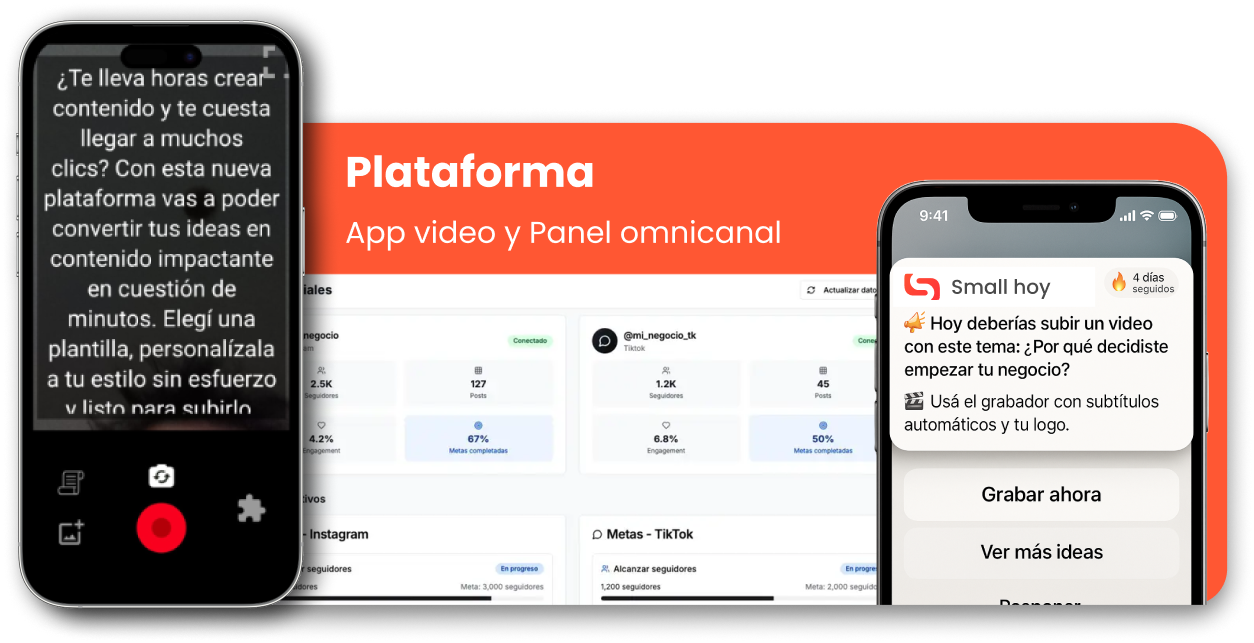
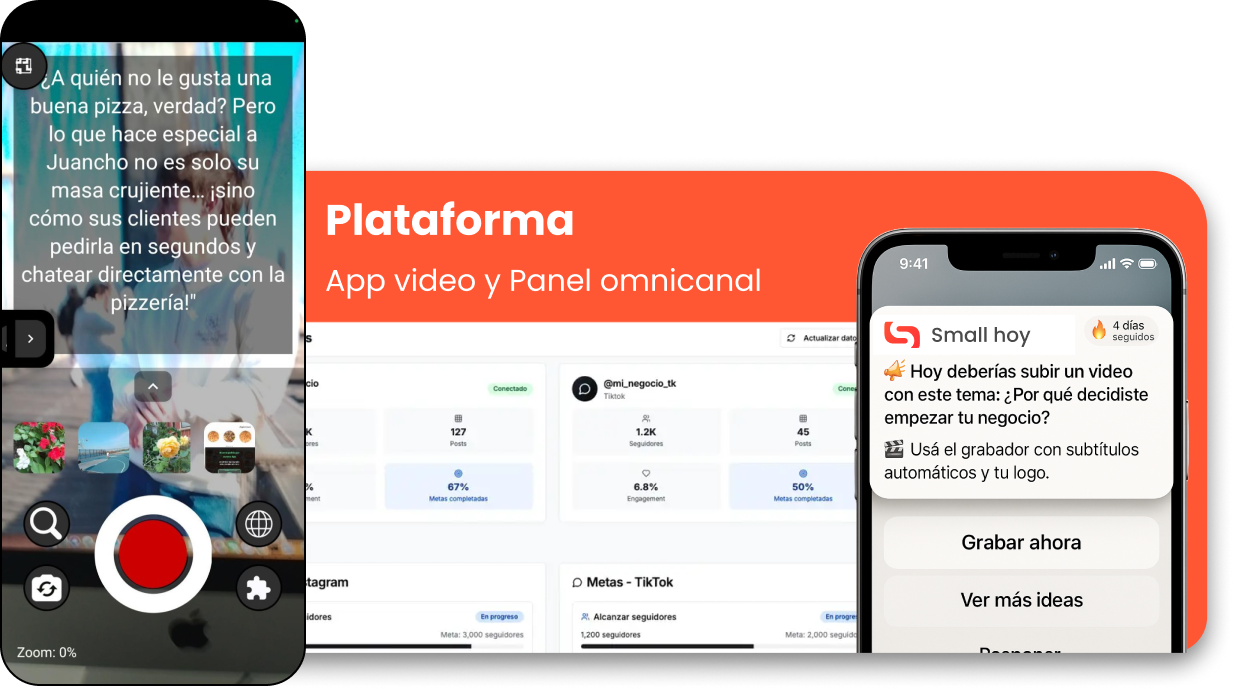
more changes for landing

diff --git a/src/app/apple-icon.tsx b/src/app/apple-icon.tsx
@@ -1,0 +1,47 @@
+import { ImageResponse } from 'next/og'
+ 
+// Route segment config
+export const runtime = 'edge'
+ 
+// Image metadata
+export const size = {
+  width: 180,
+  height: 180,
+}
+export const contentType = 'image/png'
+ 
+// Image generation
+export default function AppleIcon() {
+  return new ImageResponse(
+    (
+      // ImageResponse JSX element
+      <div
+        style={{
+          fontSize: 24,
+          background: 'transparent',
+          width: '100%',
+          height: '100%',
+          display: 'flex',
+          alignItems: 'center',
+          justifyContent: 'center',
+        }}
+      >
+        <img
+          src="https://pointzero.com/pointZeroIso.webp"
+          alt="Point Zero"
+          style={{
+            width: '100%',
+            height: '100%',
+            objectFit: 'contain',
+          }}
+        />
+      </div>
+    ),
+    // ImageResponse options
+    {
+      // For convenience, we can re-use the exported icons size metadata
+      // config to also set the ImageResponse's width and height.
+      size,
+    }
+  )
+}

diff --git a/src/app/icon.tsx b/src/app/icon.tsx
@@ -1,0 +1,47 @@
+import { ImageResponse } from 'next/og'
+ 
+// Route segment config
+export const runtime = 'edge'
+ 
+// Image metadata
+export const size = {
+  width: 32,
+  height: 32,
+}
+export const contentType = 'image/png'
+ 
+// Image generation
+export default function Icon() {
+  return new ImageResponse(
+    (
+      // ImageResponse JSX element
+      <div
+        style={{
+          fontSize: 24,
+          background: 'transparent',
+          width: '100%',
+          height: '100%',
+          display: 'flex',
+          alignItems: 'center',
+          justifyContent: 'center',
+        }}
+      >
+        <img
+          src="https://pointzero.com/pointZeroIso.webp"
+          alt="Point Zero"
+          style={{
+            width: '100%',
+            height: '100%',
+            objectFit: 'contain',
+          }}
+        />
+      </div>
+    ),
+    // ImageResponse options
+    {
+      // For convenience, we can re-use the exported icons size metadata
+      // config to also set the ImageResponse's width and height.
+      size,
+    }
+  )
+}

diff --git a/src/app/[locale]/generateMetadata.ts b/src/app/[locale]/generateMetadata.ts
@@ -1,0 +1,32 @@
+import { getTranslations } from "next-intl/server";
+import type { Metadata } from "next";
+
+export async function generateMetadata({
+  params: { locale },
+}: {
+  params: { locale: string };
+}): Promise<Metadata> {
+  const t = await getTranslations({ locale, namespace: "dict.landing" });
+
+  return {
+    title: `PointZero - ${t("hero.title")} ${t("hero.title_accent")}`,
+    description: t("hero.description"),
+    openGraph: {
+      title: `PointZero - ${t("hero.title")} ${t("hero.title_accent")}`,
+      description: t("hero.description"),
+      locale: locale,
+      alternateLanguages: {
+        canonical: "/en",
+        languages: {
+          "en": "/en",
+          "es": "/es",
+        },
+      },
+    },
+    icons: {
+      icon: '/pointZeroIso.webp',
+      shortcut: '/pointZeroIso.webp',
+      apple: '/pointZeroIso.webp',
+    },
+  };
+}

diff --git a/src/app/[locale]/layout.tsx b/src/app/[locale]/layout.tsx
@@ -14,12 +14,17 @@ const barlow = Barlow({
 });
 
 export const metadata: Metadata = {
-  title: "Small",
-  description: "Small",
+  title: "PointZero",
+  description: "We transform ideas into businesses. Free, simple, and straightforward.",
   // metadataBase: new URL(""),
   openGraph: {
-    title: "Small",
-    description: "Small",
+    title: "PointZero",
+    description: "We transform ideas into businesses. Free, simple, and straightforward.",
+  },
+  icons: {
+    icon: '/pointZeroIso.webp',
+    shortcut: '/pointZeroIso.webp',
+    apple: '/pointZeroIso.webp',
   },
 };
 

diff --git a/src/routes/Login/index.tsx b/src/routes/Login/index.tsx
@@ -117,7 +117,7 @@ export default function SmallLanding() {
         <div className={styles.roadmapContainer}>
           <div className={styles.roadmapFigure}>
             <Image
-              src={en ? "/onboarding_EN.webp" : "/images/roadmap_section_figure.png"}
+              src={en ? "/images/onboarding_EN.png" : "/images/roadmap_section_figure.png"}
               alt='Small Roadmap - Proceso de digitalización paso a paso'
               width={2878}
               height={2904}

diff --git a/README.md b/README.md
@@ -1,6 +1,6 @@
-# SMALL
+# Point Zero
 
-Small, created by Notimation, combines all our marketing tools into one easy-to-use app. It simplifies campaign and service management, offering users a centralized platform for control and monitoring.
+Point Zero, created by Notimation, combines all our marketing tools into one easy-to-use app. It simplifies campaign and service management, offering users a centralized platform for control and monitoring.
 
 **Nota:** This project is currently in development and may be subject to frequent changes. If you encounter any issues or have suggestions, please feel free to open an issue or submit a pull request.
 
@@ -11,7 +11,7 @@ To build the project locally, follow these steps:
 1. Clone this repository to your local machine using Git
 
 ```bash
-git clone https://github.com/notimation/small.git
+git clone https://github.com/notimation/pointzero.git
 ```
 
 2. Install project dependencies
@@ -34,7 +34,7 @@ yarn dev
 pnpm dev
 ```
 
-## Tecnologies
+## Technologies
 
 This project uses the following technologies and dependencies
 
@@ -58,7 +58,7 @@ This project uses the following technologies and dependencies
 - [Sass](https://sass-lang.com/) - v1.71.1
 - [TypeScript](https://www.typescriptlang.org/) - v5.1.6
 - [husky](https://typicode.github.io/husky/) - v9.0.11
-- [prettier](https://www.npmjs.com/package/prettier) - v3.2.5
+- [prettier](https://www.prettier.io/) - v3.2.5
 
 ## Internationalization (i18n) Configuration with Next.js
 
@@ -72,7 +72,7 @@ In the `dictionaries` folder, add within the JSON files for each language, the d
 "dict": {
     "home": {
       "banner": {
-        "welcome": "Te damos la bienvenida a Small",
+        "welcome": "Te damos la bienvenida a Point Zero",
         "title": "Aprendé con Playground",
       }
     },
@@ -102,5 +102,4 @@ const Component = () => {
 }
 ```
 
-
-By following these steps, we have configured international
+By following these steps, we have configured internationalization for our Point Zero application.
